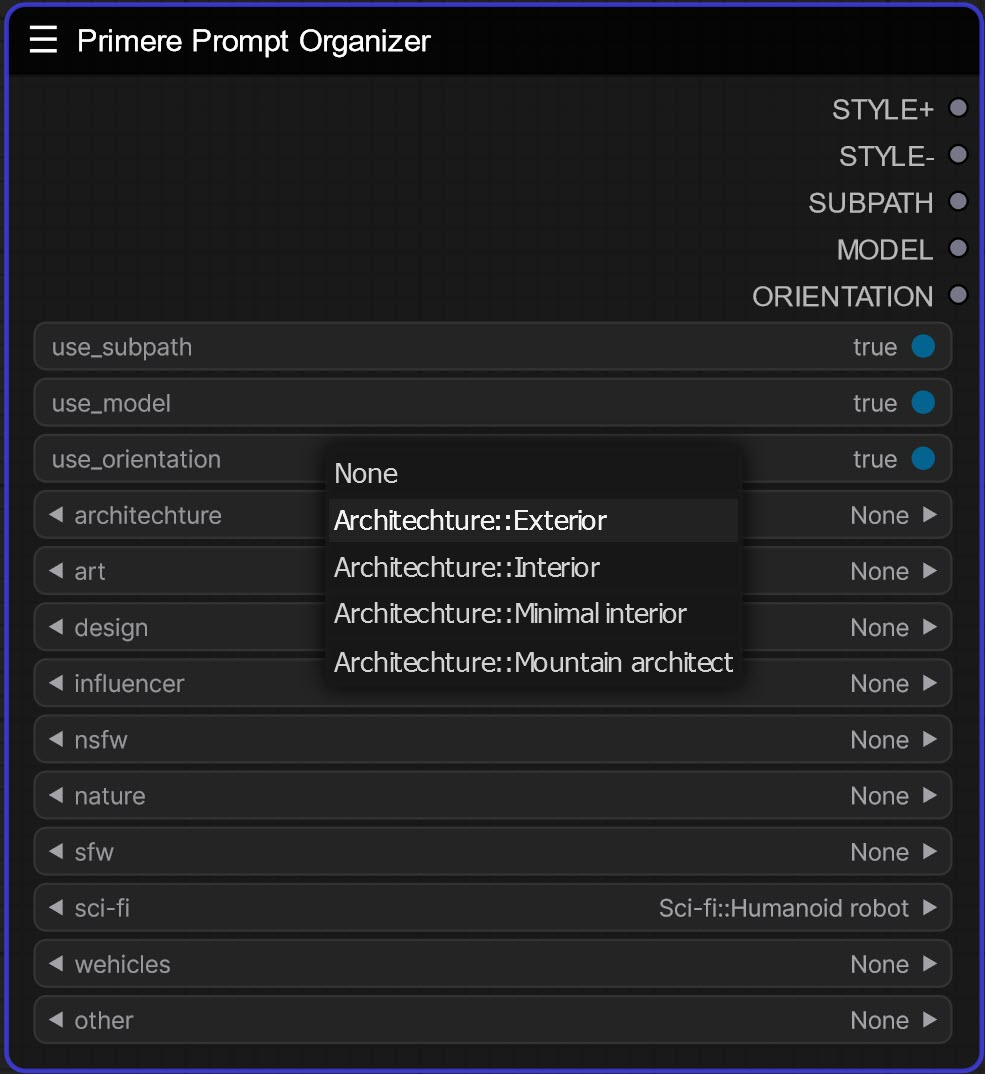
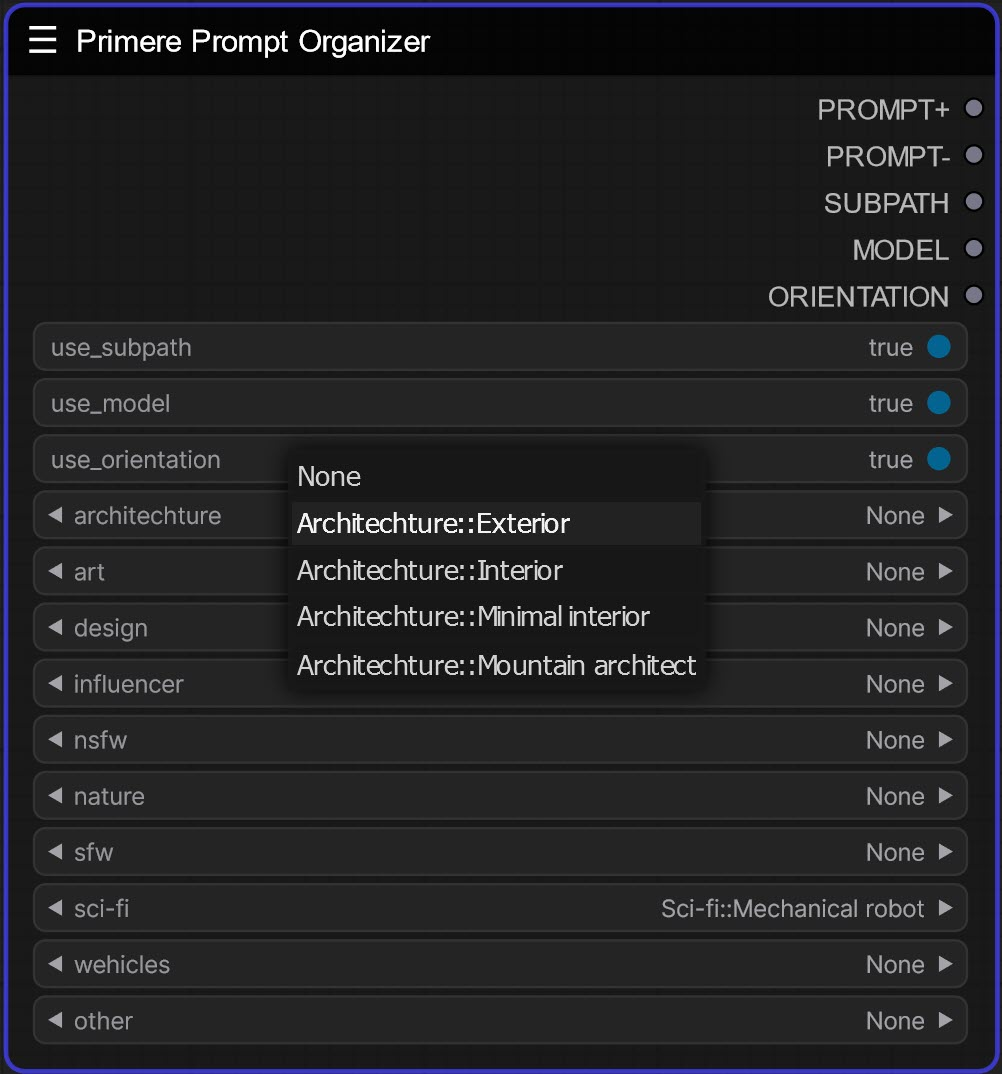
V:0.2.1 - Rename prompt org. output

diff --git a/Nodes/Inputs.py b/Nodes/Inputs.py
@@ -895,7 +895,7 @@ class PrimereLycorisKeywordMerger:
 
 class PrimerePromptOrganizer:
     RETURN_TYPES = ("STRING", "STRING", "STRING", "STRING", "STRING")
-    RETURN_NAMES = ("STYLE+", "STYLE-", "SUBPATH", "MODEL", "ORIENTATION")
+    RETURN_NAMES = ("PROMPT+", "PROMPT-", "SUBPATH", "MODEL", "ORIENTATION")
     FUNCTION = "prompt_organizer"
     CATEGORY = TREE_INPUTS
 

diff --git a/components/detectors.py b/components/detectors.py
@@ -17,6 +17,7 @@ import torchvision
 import math
 import comfy_extras.nodes_custom_sampler as nodes_custom_sampler
 import glob
+# from comfy.sd import VAE
 
 # from .local_groundingdino.datasets import transforms as T
 # from .local_groundingdino.util.utils import clean_state_dict as local_groundingdino_clean_state_dict
